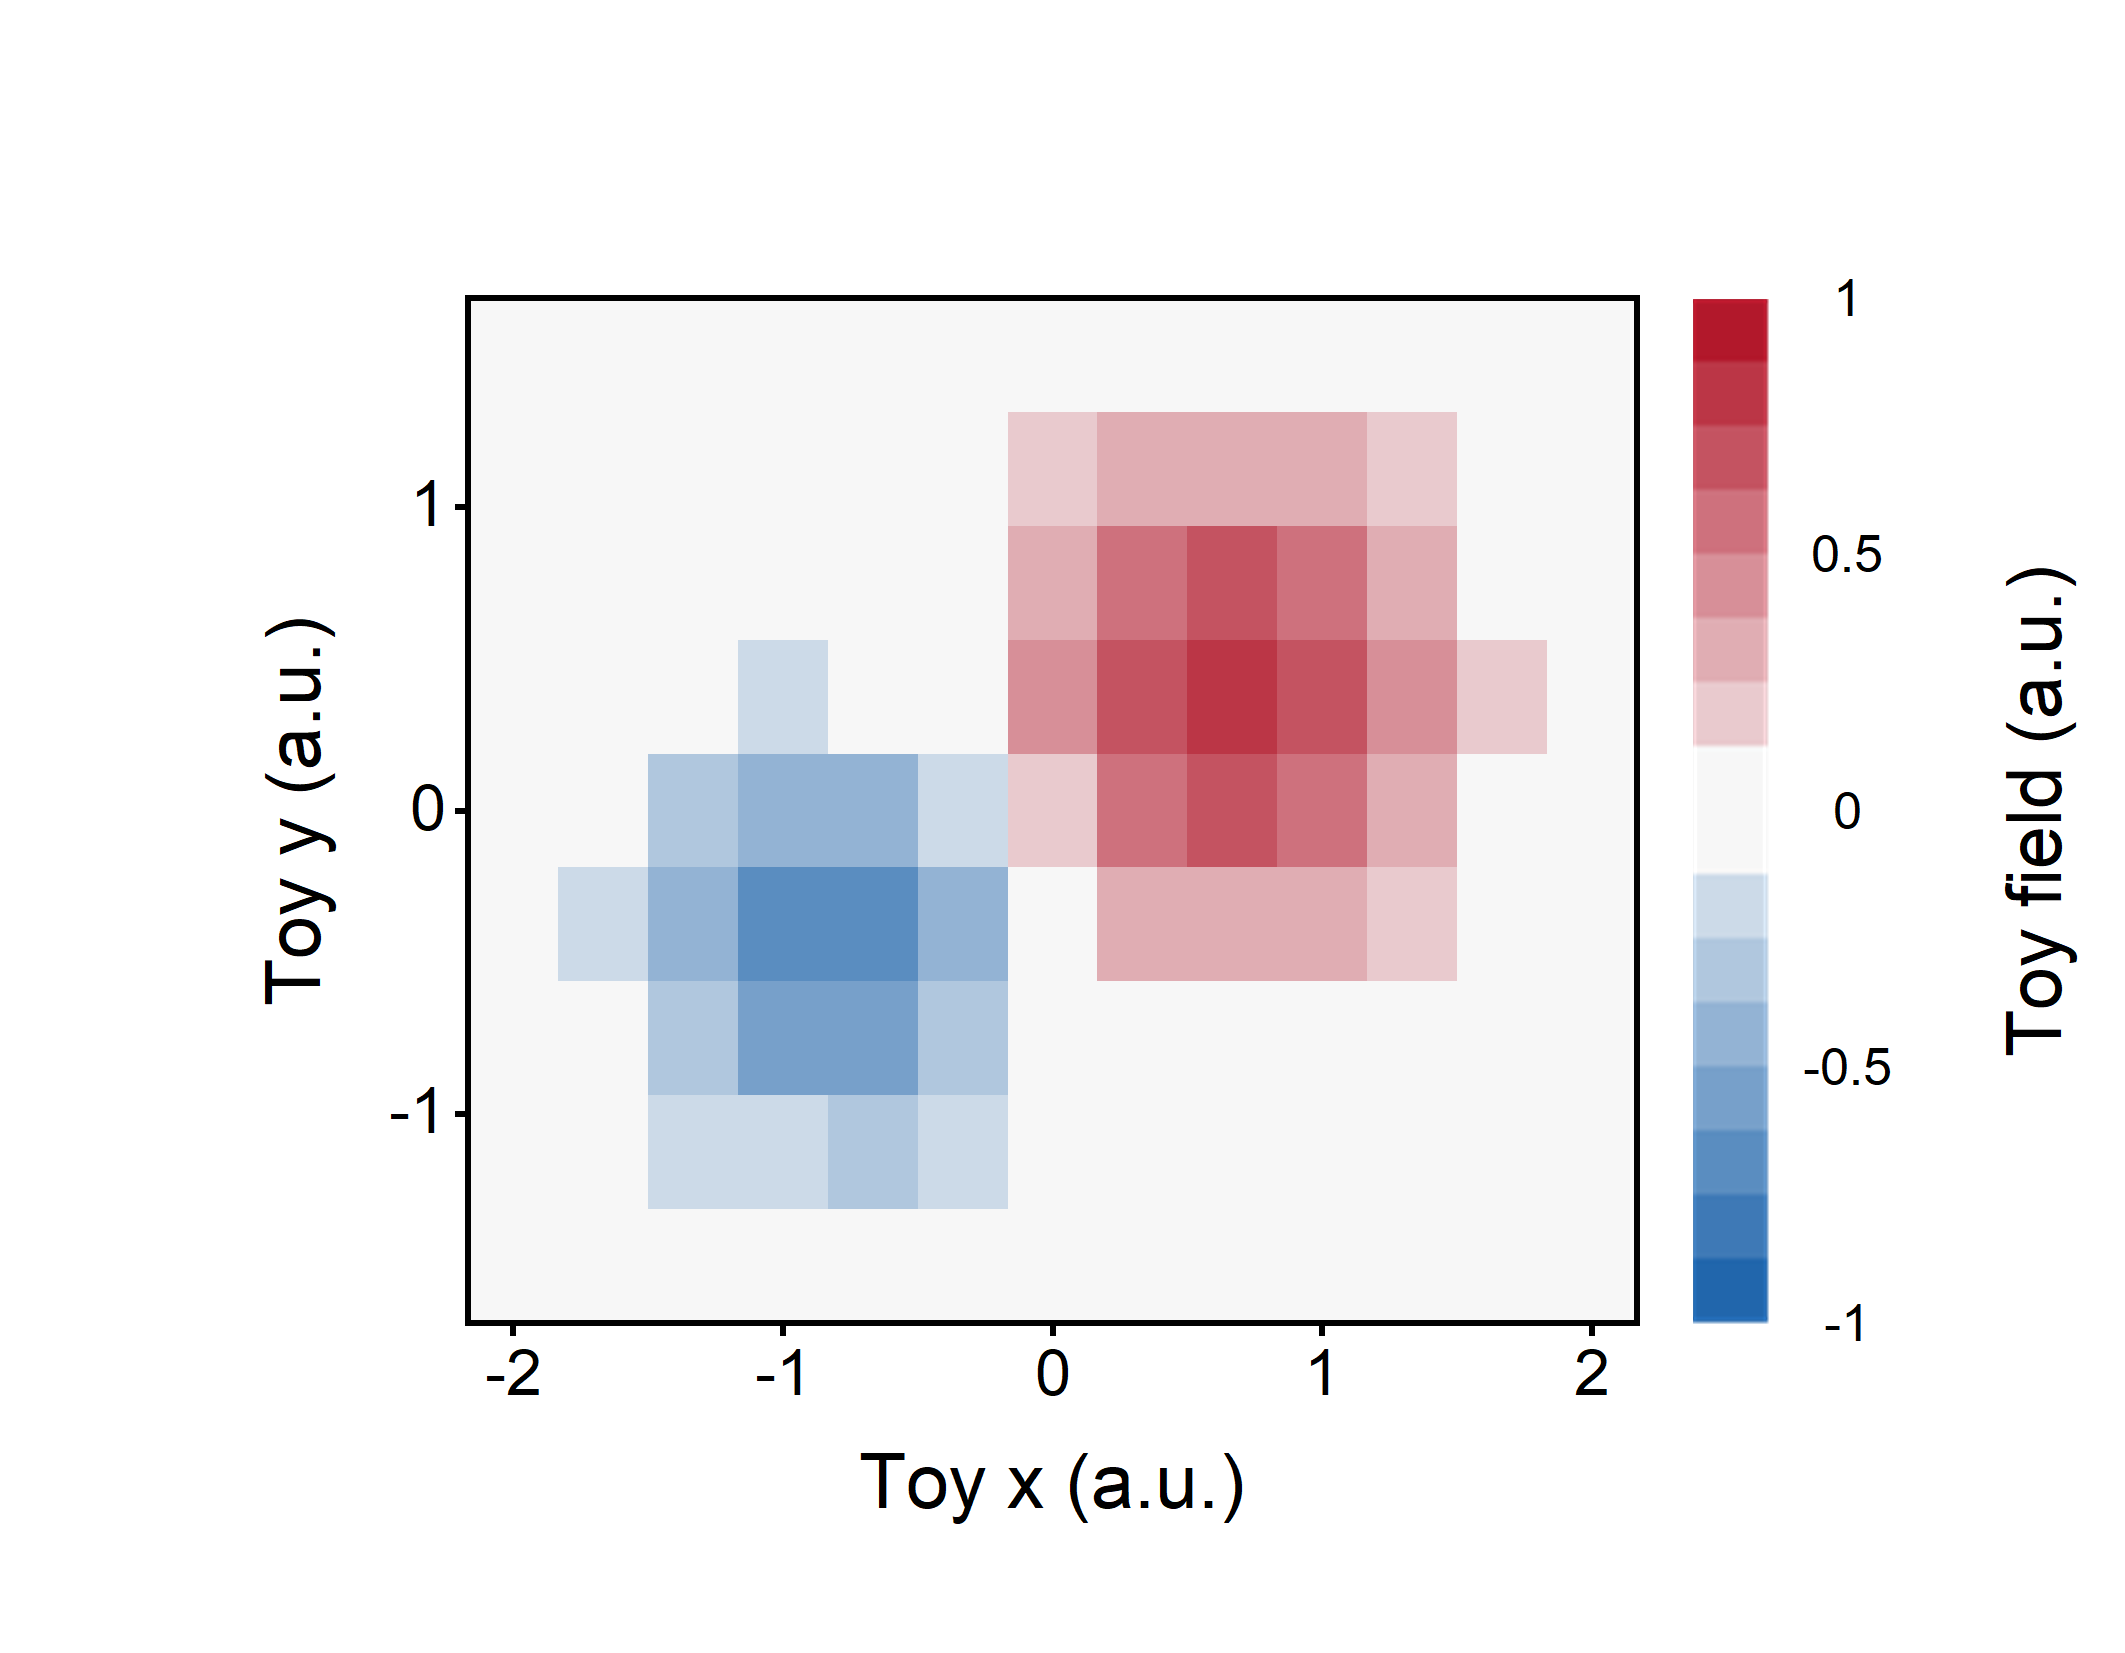
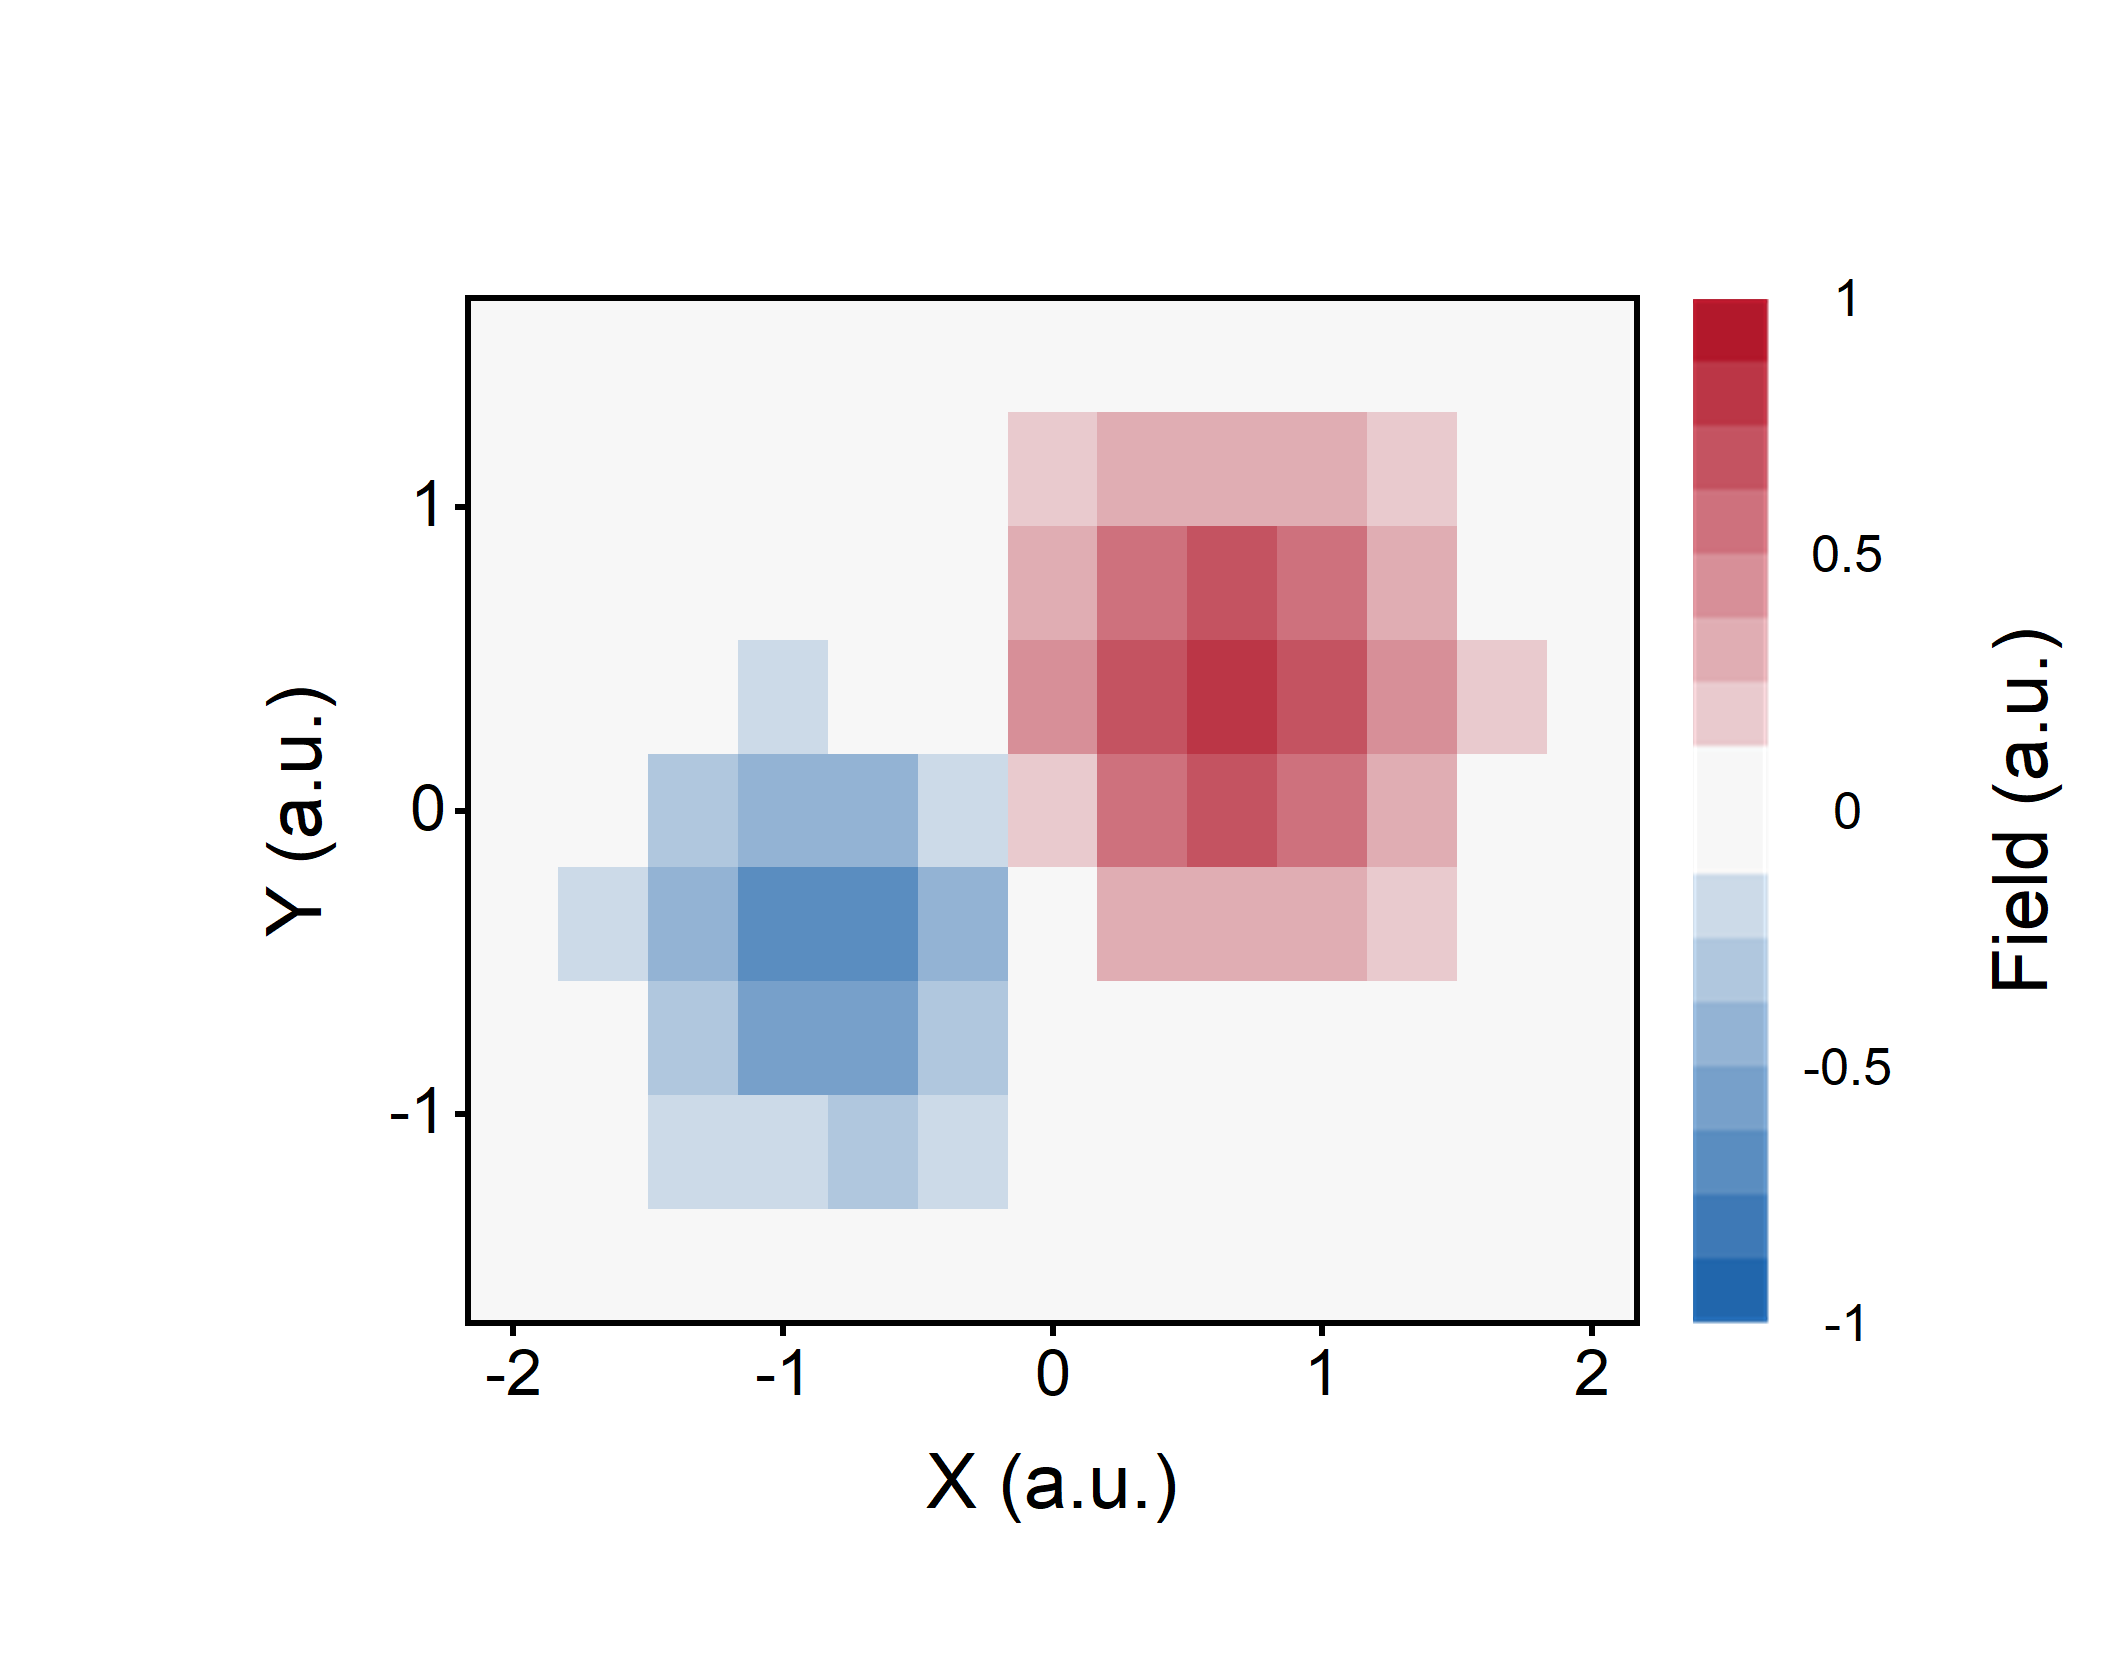
Unify gallery names and sample axes; verify plotting workflow

Changed region(s): [[0.9318, 0.3702, 0.9939, 0.6479], [0.4038, 0.8639, 0.5901, 0.9256], [0.1242, 0.3702, 0.1553, 0.6171]]

diff --git a/scripts/make_samples.py b/scripts/make_samples.py
@@ -63,7 +63,7 @@ def make_samples(target):
                   "uncertainty_definition": "Assigned synthetic ±0.10 display band; not a CI"}]},
             {"id": "heatmap", "kind": "heatmap", "csv": "heatmap.csv", "x": "x", "y": "y", "z": "z",
              "synthetic": True, "title": "Synthetic signed field", "color_range": [-1, 1], "center": 0,
-             "cmap": ["#2166AC", "#F7F7F7", "#B2182B"], "labels": {"x": "Toy x (a.u.)", "y": "Toy y (a.u.)", "color": "Toy field (a.u.)"}},
+             "cmap": ["#2166AC", "#F7F7F7", "#B2182B"], "labels": {"x": "X (a.u.)", "y": "Y (a.u.)", "color": "Field (a.u.)"}},
             {"id": "smooth", "kind": "heatmap", "csv": "xrd.csv", "x": "toy_angle", "y": "toy_scan", "z": "toy_intensity",
              "synthetic": True, "title": "Synthetic XRD scans", "color_range": [0, 1], "center": 0.5,
              "caption": "Invented diffraction-like peaks on invented axes. 9x141 raw nodes retained; display-only bilinear factor 8 gives 65x1121 nodes, 256 levels, no new observations or higher scientific resolution. White=0.5, not zero. No measured diffraction or phase claim.",
@@ -80,7 +80,7 @@ def make_samples(target):
               [[format(float(v),'.17g') for v in row] for row in zip(x,*[i+.3*np.sin(x+i*.4) for i in range(7)])])
     colors={'schema_version':1,'plots':[{'id':'palette-lines','kind':'line','csv':'colors-lines.csv','x':'x',
         'synthetic':True,'title':'','x_range':[0,10],'y_range':[-.5,7.5],
-        'labels':{'x':'Toy x (a.u.)','y':'Toy response (a.u.)'},
+        'labels':{'x':'X (a.u.)','y':'Response (a.u.)'},
         'series':[{'column':'v'+str(i),'label':name} for i,name in enumerate(['Red','Blue','Green','Purple','Orange','Gray','Pink'],1)],
         'caption':'Seven entirely invented curves; default red/blue/green/purple/orange/gray/pink identities. No measured observable or scientific inference.'}]}
     (target/'colors.json').write_text(json.dumps(colors,ensure_ascii=False,indent=2)+'\n',encoding='utf-8')

diff --git a/README.md b/README.md
@@ -14,11 +14,13 @@ Python 3.10+; install the dependencies, then run an example:
 
 ~~~sh
 python -m pip install -r requirements.txt
-python scripts/ai2origin.py samples/demo.json --out work/demo --backend python
+python scripts/ai2origin.py samples/demo.json --out ../ai2origin-work/demo --backend python
 ~~~
 
-Use a new output directory outside the installed skill. Add --svg for an editable vector copy.
-Arial must be installed on your system. If missing, run --list-fonts and choose
+Run commands from the repository folder; outputs go to a new folder beside it.
+Add --svg for an editable vector copy.
+Arial must be installed on your system. If missing, run
+`python scripts/ai2origin.py --list-fonts` and choose
 --font "Installed name". No fonts are bundled, copied or downloaded;
 the receipt records the actual font. [Font policy](references/style.md).
 
@@ -41,11 +43,11 @@ Use an installed, working Origin 2021 on Windows. For other versions, let your
 AI adapt the workflow and check the result.
 
 ~~~sh
-python scripts/ai2origin.py samples/demo.json --out work/prepared --backend prepare
+python scripts/ai2origin.py samples/demo.json --out ../ai2origin-work/prepared --backend prepare
 ~~~
 
 ~~~powershell
-.\scripts\origin.ps1 -Plan .\work\prepared\origin-plan.json -OutDir .\work\native -Run
+powershell -NoProfile -ExecutionPolicy Bypass -File .\scripts\origin.ps1 -Plan ..\ai2origin-work\prepared\origin-plan.json -OutDir ..\ai2origin-work\native -Run
 ~~~
 
 Save and close any open Origin session first. The runner checks values,
@@ -57,36 +59,36 @@ saves/reopens the project and exports its graphs. [Native details](references/or
 
 All values are invented. These six figures are Origin exports.
 
-| XY bands | Battery curves | Vertical violin |
+| XY bands | Battery curves | Raincloud |
 | --- | --- | --- |
-| ![XY](samples/origin-xy.png) | ![Battery curves](templates/origin-battery-rate.png) | ![Vertical violin](templates/origin-violin-vertical.png) |
+| ![XY](samples/origin-xy.png) | ![Battery curves](templates/origin-battery-rate.png) | ![Raincloud](templates/origin-violin-vertical.png) |
 
 | Spectral stack | XRD heatmap | Field heatmap |
 | --- | --- | --- |
 | ![Stack](templates/origin-stack.png) | ![XRD heatmap](samples/origin-smooth.png) | ![Field heatmap](samples/origin-heatmap-purplegreen.png) |
 
 Browse [samples](samples/README.md) and [templates](templates/README.md).
-The [green–yellow heatmap config](samples/heatmap-purplegreen.json) is ready to reuse.
+The [Field heatmap config](samples/heatmap-purplegreen.json) is ready to reuse.
 Sparse line-symbol curves can use 5–6 pt markers through a
 [style override](references/style.md); keep dense data readable.
 
 Try a family with Python:
 
 ~~~sh
-python scripts/ai2origin.py templates/battery.json --out work/battery --backend python
-python scripts/ai2origin.py templates/paper.json --select cv nyquist --out work/echem --backend python
-python scripts/ai2origin.py templates/paper.json --select drt drt-map --out work/drt --backend python
-python scripts/ai2origin.py templates/paper.json --select migration dos rdf msd --out work/atomistic --backend python
+python scripts/ai2origin.py templates/battery.json --out ../ai2origin-work/battery --backend python
+python scripts/ai2origin.py templates/paper.json --select cv nyquist --out ../ai2origin-work/echem --backend python
+python scripts/ai2origin.py templates/paper.json --select drt drt-map --out ../ai2origin-work/drt --backend python
+python scripts/ai2origin.py templates/paper.json --select migration dos rdf msd --out ../ai2origin-work/atomistic --backend python
 ~~~
 
 ### From a table to a figure
 
-The included 11-point toy CV example exercises column mapping and plotting:
+The included 11-point synthetic CV example exercises column mapping and plotting:
 
 ~~~sh
-python scripts/intake.py samples/intake.csv --map samples/intake.json --out work/table
-python scripts/intake.py --check work/table
-python scripts/ai2origin.py work/table/plot.json --out work/table-figure --backend python
+python scripts/intake.py samples/intake.csv --map samples/intake.json --out ../ai2origin-work/table
+python scripts/intake.py --check ../ai2origin-work/table
+python scripts/ai2origin.py ../ai2origin-work/table/plot.json --out ../ai2origin-work/table-figure --backend python
 ~~~
 
 The mapping declares columns and units; [table details](references/tables.md)

diff --git a/VALIDATION.md b/VALIDATION.md
@@ -21,6 +21,14 @@ The0.3.6 version fields change provenance text only. Plot objects, styles, sourc
 values and numerical results match the retained generations. Their native
 evidence remains0.3.4/0.3.5; no new native generation is implied.
 
+The public sample revision removes Toy from the signed-field and palette-curve
+axes. Both graphs were regenerated in two Origin2021 sessions:714 worksheet
+cells read back exactly per session, projects saved/reopened, styles checked
+and repeated pixels matched. Python PNG/SVG repeats also matched. Source values
+and palettes are unchanged. The separate Field heatmap has1840 checked cells
+and the same save/reopen/repeat checks; its caption update changes no drawing
+objects. Per-image records distinguish these revisions from retained figures.
+
 Synthetic-generator checks retain exact headers, labels and row order, while
 allowing numeric roundoff with rtol=atol=1e-12 across environments. Source-file
 hashes and repeated exports still require exact bytes.
@@ -37,10 +45,11 @@ these simulate absent optional dependencies, Arial and PowerShell.
 They are not clean-machine results. Three native consumer tests skip when
 Windows PowerShell is unavailable. Optional analysis modules skip without SciPy.
 
-Python3.12 standard-library text inspection is checked. Full clean
-Python3.10/3.12 plotting/analysis and dependency-range endpoints are untested.
-The CI file discovers all test modules in separate core/analysis jobs on both
-versions; see GitHub Actions for the current result. Other systems should be checked
+Fresh Linux GitHub Actions jobs pass on Python3.10 and3.12 in both core and
+analysis profiles. Each job discovers all test modules and repeats the example
+exports; Windows-only checks skip there. Dependency-range endpoints and clean
+Windows installation remain untested. See GitHub Actions for the current result.
+Other systems should be checked
 by the user's assistant using the tools and fonts actually available there.
 Different versions and fonts may produce different pixels or fit rounding.
 

diff --git a/references/origin2021.md b/references/origin2021.md
@@ -38,14 +38,14 @@ parser merely because the package can produce OPJU output.
 From the repository root, with your existing Python environment:
 
 ~~~sh
-python scripts/ai2origin.py samples/demo.json --out work/prepared --backend prepare
+python scripts/ai2origin.py samples/demo.json --out ../ai2origin-work/prepared --backend prepare
 ~~~
 
 Then in native Windows PowerShell:
 
 ~~~powershell
-.\scripts\origin.ps1 -Plan .\work\prepared\origin-plan.json
-.\scripts\origin.ps1 -Plan .\work\prepared\origin-plan.json -OutDir .\work\native -Run -TimeoutSeconds 180
+powershell -NoProfile -ExecutionPolicy Bypass -File .\scripts\origin.ps1 -Plan ..\ai2origin-work\prepared\origin-plan.json
+powershell -NoProfile -ExecutionPolicy Bypass -File .\scripts\origin.ps1 -Plan ..\ai2origin-work\prepared\origin-plan.json -OutDir ..\ai2origin-work\native -Run -TimeoutSeconds 180
 ~~~
 
 The first command reads the plan and registry/version only. It does not start

diff --git a/CHANGELOG.md b/CHANGELOG.md
@@ -4,6 +4,9 @@
 
 - Keep the existing homepage wording, with six native example images.
 - Add a copyable prompt for starting or continuing a plotting task.
+- Use Raincloud and Field heatmap in the gallery; remove Toy from sample axes
+  and their generator, retaining source values and palette settings.
+- Keep example outputs outside the skill and clarify the Windows invocation.
 - Let synthetic-data checks tolerate floating-point roundoff across Python
   environments; keep source hashes and repeated-export checks exact.
 - Shorten the English and Chinese entry points. Let the calling AI choose
